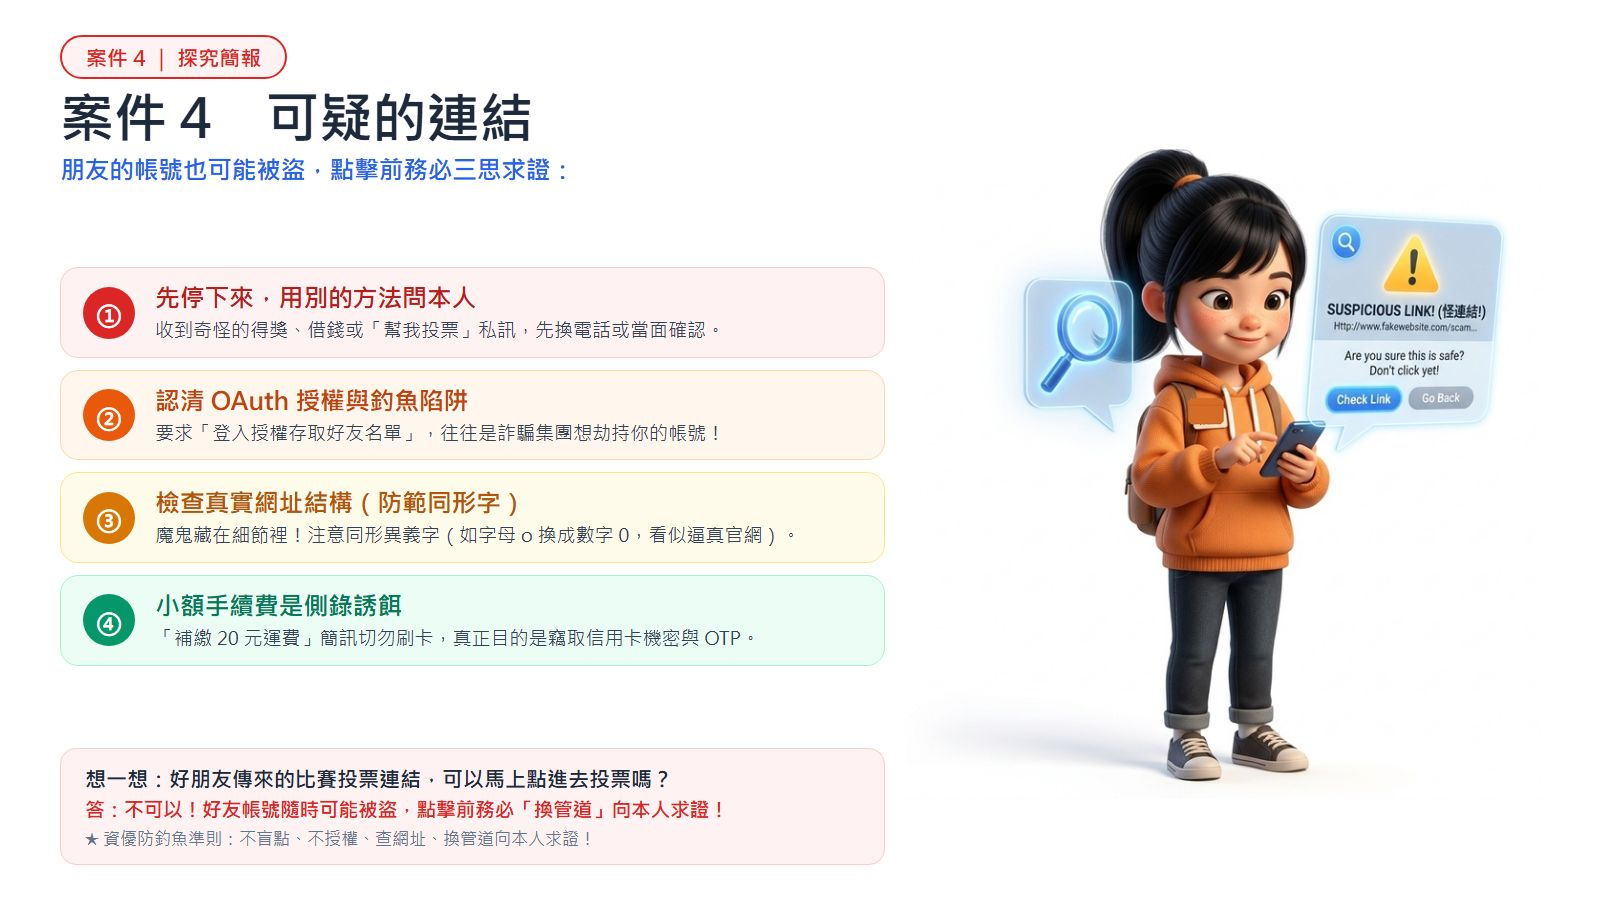
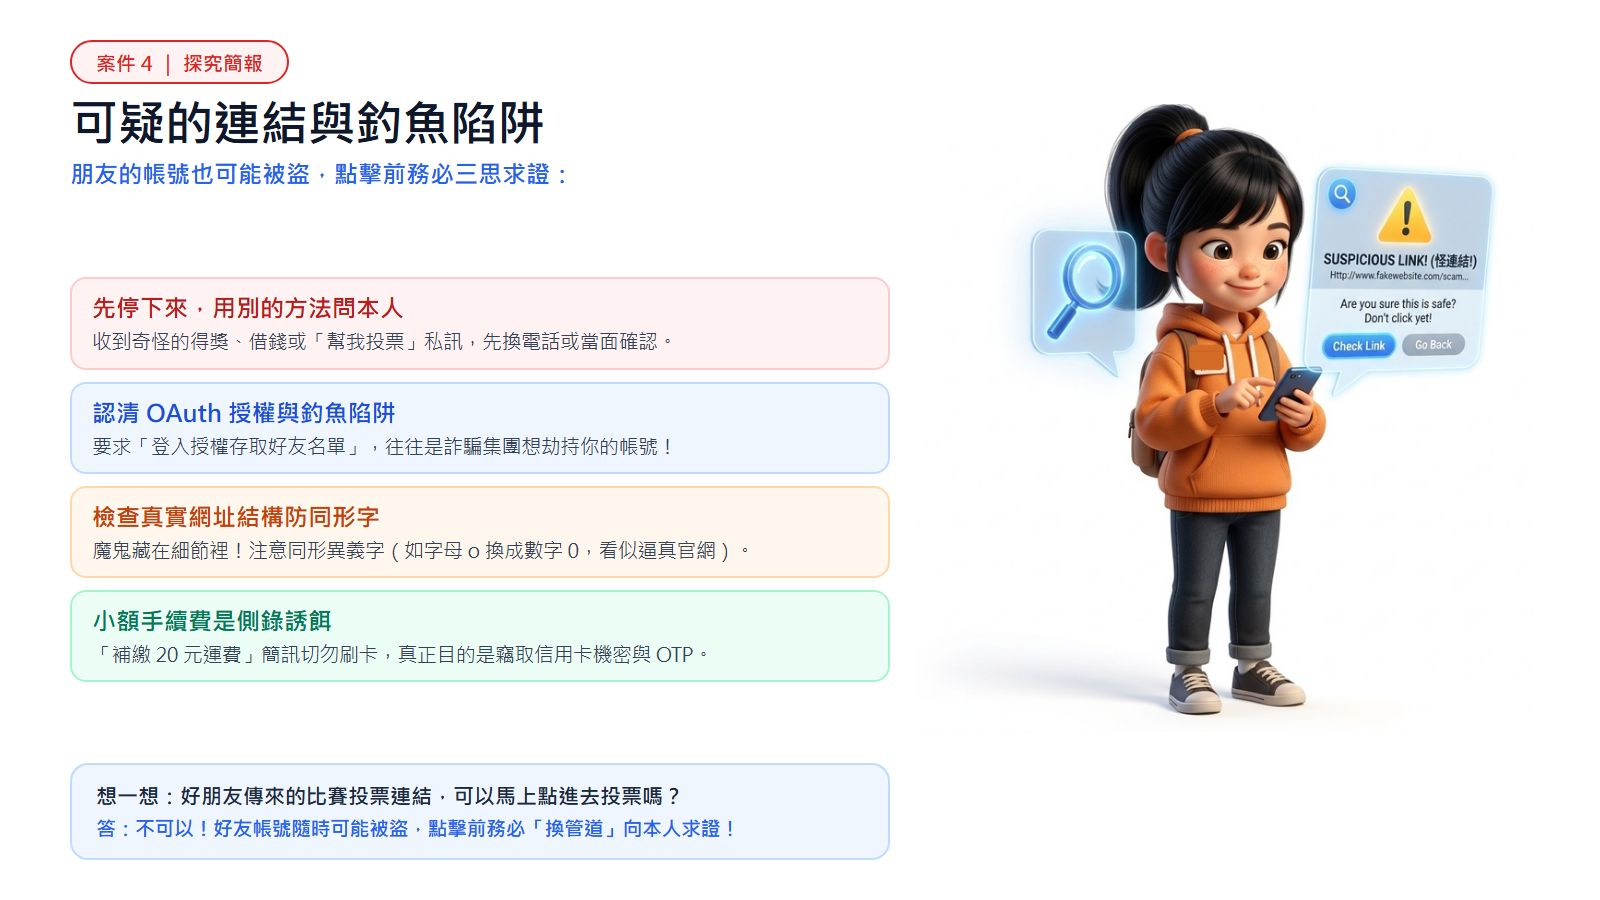
fix(case4): 依 Kristy 確認正式套用紅藍橘綠 4 彩框大字體版

diff --git a/units/g5-cyber-safety/index.html b/units/g5-cyber-safety/index.html
@@ -475,7 +475,7 @@
         {
           title: '案件 4　可疑的連結',
           text: '朋友的帳號也可能被盜。收到奇怪的連結或要求時，<b>先停下來，用別的方法問本人</b>，必要時撥 165 反詐騙專線。',
-          slides: ['assets/v4_phish_v2.jpg?v=20261024_case4_phish_aligned'],
+          slides: ['assets/final_case4.jpg?v=20261024_case4_b_perfect'],
           interactive: GAMES.scamChat,
           quizzes: [
             {
@@ -491,7 +491,7 @@
               feedback: '小額手續費是詐騙集團降低心防的誘餌，其真正目的是竊取卡片機密與簡訊 OTP 驗證碼，隨後在海外發動數萬元的盜刷。'
             }
           ],
-          infographic: 'assets/i4_net_v3.jpg?v=20261024_case4_phish_aligned',
+          infographic: 'assets/i4_net_v3.jpg?v=20261024_case4_b_perfect',
           teacherTips: ['翔翔案例的討論題保留：電腦為什麼會這樣？如果是你，會不會點表哥的連結？', '原「牛刀小試」兩題已改寫成上面的想一想（天堂遊戲郵件、即時通 → 遊戲寶物私訊、LINE 借點數）。']
         },
         {

diff --git a/handoff.md b/handoff.md
@@ -134,21 +134,25 @@
 - **依據 Kristy 最新指導完成案件 6（AI 好朋友能說心事嗎·選項 B 有 4 彩框大字體·無數字·小男孩與微笑機器人）全面升級上線（2026-10-24 16:55）**：
   - **Kristy 確認選擇「B」**：採用 4 彩色大卡片框（藍、橘、綠、紅），徹底移除 `1 2 3 4` 數字，標題放大至 `24px`，內文放大至 `19.5px`。
   - **排版呼吸感優化**：大標題精煉為單行 `AI 好朋友能說心事嗎？`，底部「安全守則」提示框與上方 4 個彩框 100% 精準對齊，右側 3D 大眼小男孩揮手、微笑浮空小機器人、星星與燈泡立體無瑕，球鞋平穩著地與底框水平齊平。
-  - **快取碼刷新與上線**：覆蓋 `final_case6.jpg`，更新 `index.html` 快取碼 `?v=20261024_case6_b_perfect`。
+- **依據 Kristy 最新指導完成案件 4（可疑的連結與釣魚陷阱·紅藍橘綠 4 彩框大字體·無數字·高馬尾女孩與警示窗）全面升級上線（2026-10-24 16:59）**：
+  - **Kristy 確認「OK」**：採用 4 彩色大卡片框（紅、藍、橘、綠對比鮮明版，消除原橘黃相近問題），徹底移除 `1 2 3 4` 數字，標題放大至 `24px`，內文放大至 `19.5px`。
+  - **排版呼吸感優化**：大標題精煉為單行 `可疑的連結與釣魚陷阱`，底部「想一想」文字框與「★ 資安偵探金律」框與上方 4 個彩框 100% 精準對齊，右側 3D 高馬尾女孩手持手機、警示視窗與懸浮放大鏡立體無瑕，球鞋穩健踏地留白充裕。
+  - **快取碼刷新與上線**：覆蓋 `final_case4.jpg` 與 `i4_net_v3.jpg`，更新 `index.html` 快取碼 `?v=20261024_case4_b_perfect`。
 - 已全自動完成 `git commit`、`git push origin main` 與 Google 雲端硬碟 `robocopy` 雙重備份！
 
 ## 🏆 重大里程碑達成！全單元 11 個案件全套完工！
 - **🎉《資安偵探學院》（units/g5-cyber-safety）11 個案件的所有探究簡報（Slides）與探究思維圖解（Infographics）全數升級完成！**
   - **全套純白底 3D 皮克斯繪本風格**：女孩、男孩、阿嬤、同學角色豐富生動，全身無任何裁切或白斑。
   - **全套統一紅框紅字規格標籤**：`案件 N ｜ 探究簡報`、`案件 N ｜ 探究思維圖解`。
-  - **依案件屬性精緻化版面**：案件 1 採用純金字塔＋紅色向上階梯箭頭；案件 2、案件 3、案件 6 採用彩框大字體無數字版；其他案件依屬性配置四彩大卡片或清爽大字圓點條列。
+  - **依案件屬性精緻化版面**：案件 1 採用純金字塔＋紅色向上階梯箭頭；案件 2、案件 3、案件 4、案件 6 採用彩框大字體無數字版；其他案件依屬性配置四彩大卡片或清爽大字圓點條列。
   - **全套統一底部互動問答框 / 金律提示框**：增強課堂互動與核心觀念收斂。
   - **全套統一舒適呼吸留白**：文字卡片與插圖間保留 70px~150px 充裕空間，徹底告別擁擠與遮擋。
 - 教學影片播放清單（含《2020》網路危機等 4 部短片）已上線。
 
 ## ➡ 下一步
-1. 請 Kristy 確認【案件 4：可疑的連結與釣魚陷阱】（高馬尾女孩與警示窗）是否同樣選擇 **選項 B**（有 4 彩框版）即可正式上線？
-2. 緊接著推進【案件 5：阿嬤的緊急電話（Deepfake 偽造語音與影像）】打樣確認！
+1. 緊接著「照順序」推進【案件 5：阿嬤的緊急電話（Deepfake 偽造語音與影像）】：
+   - 準備案件 5 的打樣預覽（選項 A 無中間框 vs 選項 B 有 4 彩框），呈報 Kristy 檢閱二選一。
+2. 案件 5 確認後，依序推進案件 7、案件 8...
 3. 始終堅持「改之前必定給 Kristy 確認」！
 
 ## ⚠ 注意事項
@@ -156,7 +160,7 @@
 - 所有插圖一律為 16:9 純白底繪本規格，零切邊、零陰影框。
 
 ## 🕐 最後更新
-- 時間：2026-10-24 16:55
+- 時間：2026-10-24 16:59
 - 更新者：Antigravity @ LAPTOP-IUMJF2MM
 
 
